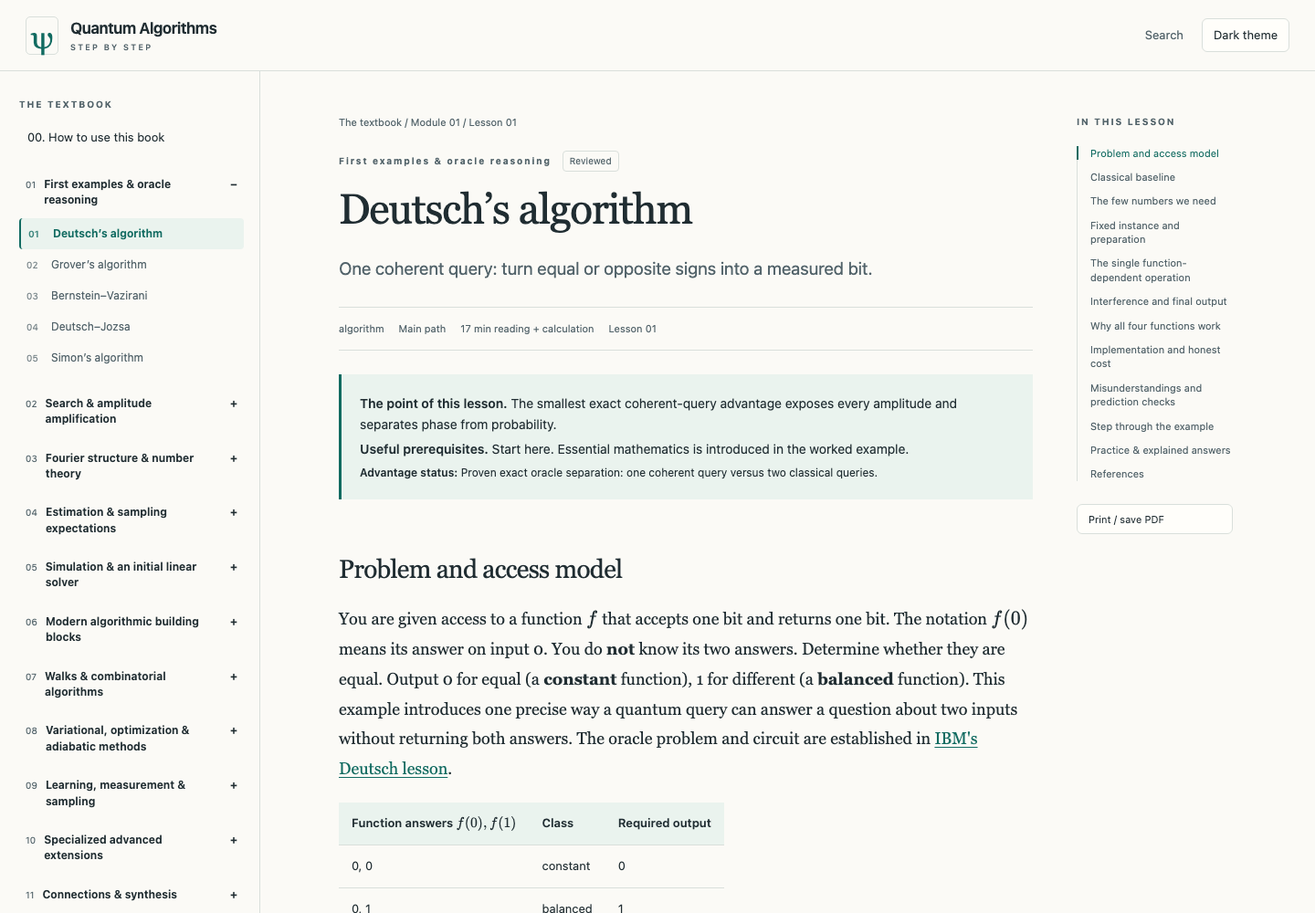
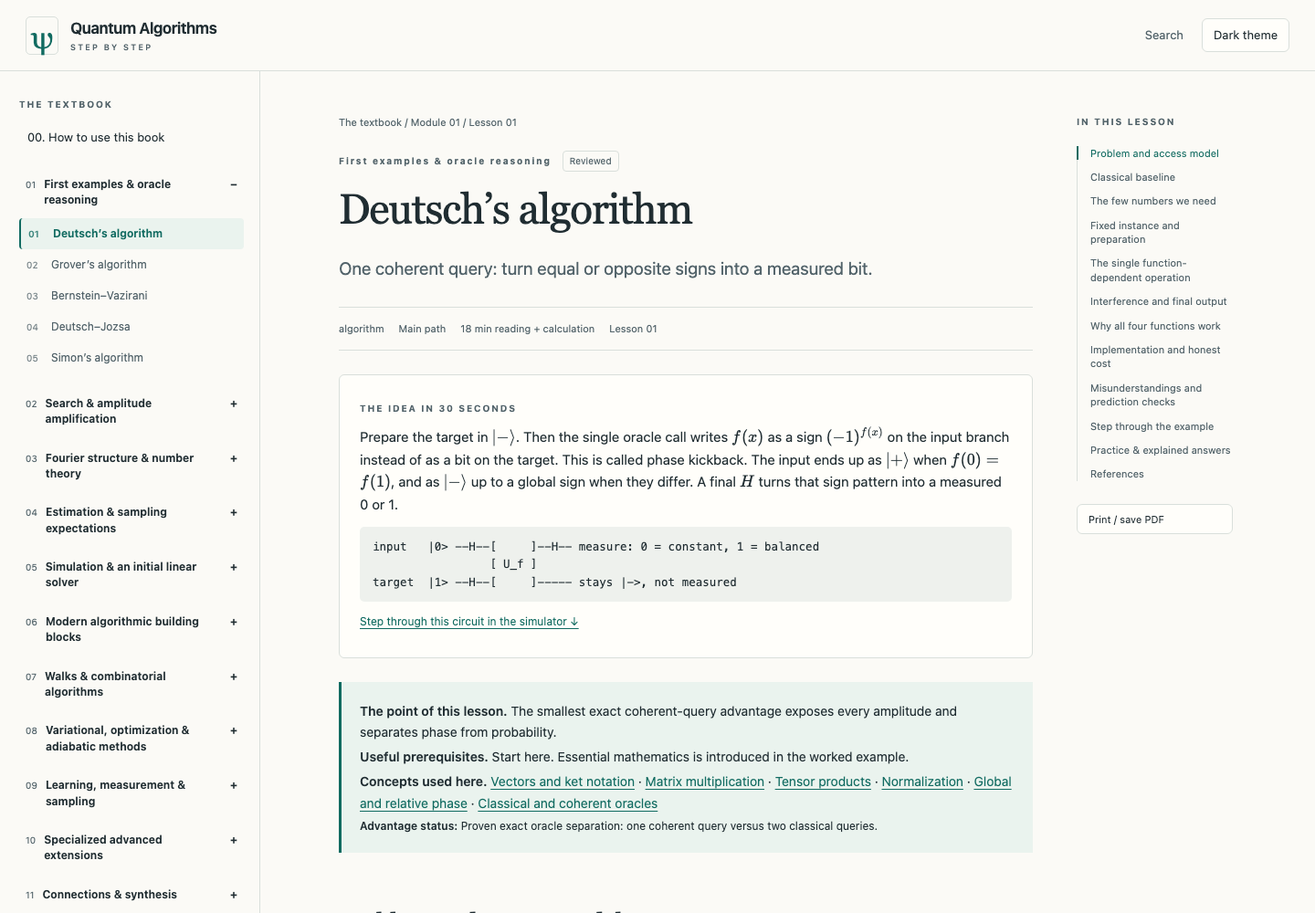
Make the first lessons faster to learn from
- Next/previous follow the main path; an adjacent optional branch is
  offered as a detour, and branch pages link back to the main path.
- Lessons 01–06 open with "The idea in 30 seconds": a plain-language
  mechanism plus an ASCII circuit sketch and a jump link to the demo.
- The context box lists the lesson's concepts as definition links.
- Define ket notation before the first oracle (Deutsch, Grover) and
  define "superposition"; link oracle, Hadamard, controlled gates,
  eigenstate, inner product, entangled, mixture, span, ancilla and
  uncompute at first use.
- New Hadamard definition; phase definition now leads with ±1 signs.
- Rename Deutsch–Jozsa's uniform state to |u⟩ so s keeps one meaning
  per lesson, and add signposts between Grover, BV and amplitude
  amplification.
- Home page: start button with reading time, a one-paragraph "pattern
  to watch for", and later-module conventions collapsed.
- Path page: grouped by module with per-lesson reading time and a
  first-sitting suggestion.
- Fix the Simon check 1 answer and the module 1 revisit wording.

diff --git a/tests/browser/book.spec.ts b/tests/browser/book.spec.ts
@@ -109,7 +109,7 @@ test('practice math, bibliography ordering and full-text search include supporti
  await expect(page.locator('#practice .katex').first()).toBeAttached();
  expect(await page.evaluate(()=>Boolean(document.getElementById('interactive-example')!.compareDocumentPosition(document.getElementById('references')!)&Node.DOCUMENT_POSITION_FOLLOWING))).toBe(true);
  const records=await (await page.request.get('/search-index.json')).json();
- expect(records.some((r:{kind:string;text:string})=>r.kind==='Exercise'&&r.text.includes('repeated row adds no rank'))).toBe(true);
+ expect(records.some((r:{kind:string;text:string})=>r.kind==='Exercise'&&r.text.includes('two rows are independent'))).toBe(true);
  expect(records.some((r:{kind:string;text:string})=>r.kind==='Module revisit'&&r.text.includes('output contracts differ'))).toBe(true);
  expect(records.some((r:{section:string})=>r.section==='Overview')).toBe(true);
 });
@@ -150,4 +150,19 @@ test('phone lessons open with the title on screen and the section list collapsed
 test('inline math inside disclosure labels and exercise answers is typeset',async({page})=>{
  await page.goto('/lessons/hallgren/');expect(await page.locator('summary .katex').count()).toBeGreaterThan(0);
  await page.goto('/lessons/amplitude-amplification/');await expect(page.locator('#practice')).not.toContainText('A-dagger');
+});
+
+test('Next follows the main path, offers branches, and branches lead back',async({page})=>{
+ await page.goto('/lessons/amplitude-amplification/');
+ await expect(page.locator('.prev-next').getByRole('link',{name:/NEXT LESSON/})).toHaveAttribute('href','/lessons/qft/');
+ await expect(page.locator('.path-note a')).toHaveAttribute('href','/lessons/bbht-search/');
+ await page.goto('/lessons/bbht-search/');await expect(page.locator('.path-note a')).toHaveAttribute('href','/lessons/qft/');
+ await page.goto('/lessons/qft/');await expect(page.locator('.prev-next').getByRole('link',{name:/PREVIOUS LESSON/})).toHaveAttribute('href','/lessons/amplitude-amplification/');
+});
+
+test('early lessons open with a short idea, a circuit sketch and linked concepts',async({page})=>{
+ await page.goto('/lessons/deutsch/');const idea=page.locator('.idea-box');
+ await expect(idea).toContainText('phase kickback');await expect(idea.locator('.circuit-sketch')).toContainText('U_f');
+ await idea.getByRole('link',{name:/simulator/}).click();await expect(page.locator('#interactive-example')).toBeInViewport();
+ await page.locator('.context-box a[href="/definitions/oracles/"]').click();await expect(page.getByRole('dialog')).toBeVisible();
 });

diff --git a/src/styles/book.css b/src/styles/book.css
@@ -14,3 +14,14 @@ main{overflow-wrap:break-word}
 /* The section list is a disclosure only on phones; elsewhere its label is a static heading. */
 .toc-details>summary{list-style:none;cursor:default}.toc-details>summary::-webkit-details-marker{display:none}.toc-count{display:none}
 @media(max-width:800px){.toc-details>summary{cursor:pointer;display:flex;align-items:center;min-height:40px}.toc-details>summary::after{content:'▸';margin-left:auto;font-size:13px;letter-spacing:0}.toc-details[open]>summary::after{content:'▾'}.toc-count{display:inline;font-weight:500;letter-spacing:.6px;white-space:pre}}
+/* A short intuition and circuit sketch ahead of the full derivation. */
+.idea-box{border:1px solid var(--line);border-radius:6px;background:var(--surface);padding:18px 22px;margin:26px 0 0;font-size:15px;line-height:1.65}
+.idea-box .idea-text p{margin:.5rem 0}
+.circuit-sketch{font:12.5px/1.55 ui-monospace,SFMono-Regular,Menlo,Consolas,monospace;background:var(--code);padding:12px 14px;border-radius:5px;overflow-x:auto;margin:12px 0 4px;white-space:pre}
+.path-note{margin:14px 0 0;color:var(--muted)}
+@media print{.idea-box{border-color:#bbb}.path-note{display:none}}
+.start-cta{display:flex;flex-wrap:wrap;align-items:center;gap:10px 16px;margin:22px 0 6px}
+.button-link{display:inline-block;background:var(--accent);color:var(--paper);text-decoration:none;font-weight:600;font-size:15px;padding:11px 18px;border-radius:6px}
+.button-link:hover{filter:brightness(1.08)}
+.path-module{font-family:Georgia,serif;font-weight:400;font-size:22px;margin:38px 0 4px}
+.catalog-list .path-minutes{font-size:12px;margin-top:2px}

diff --git a/src/lib/content.ts b/src/lib/content.ts
@@ -65,4 +65,6 @@ export async function render(markdown: string): Promise<Rendered> {
   return {html,sections,text:plainText(html)};
 }
 export function counts() { return Object.fromEntries(['reviewed','complete','partial','planned'].map(s=>[s,lessons.filter(l=>l.editorial===s).length])); }
+// Same estimate the lesson page shows: rendered lesson words at 150 per minute.
+export async function readingMinutes(l: Lesson) { return Math.ceil((await render(lessonMarkdown(l))).text.split(/\s+/).length/150); }
 export function label(l: Lesson) { return `${String(l.sequence).padStart(2,'0')}. ${l.title}`; }

diff --git a/src/content/lessons/01-deutsch.md b/src/content/lessons/01-deutsch.md
@@ -9,7 +9,7 @@ You are given access to a function $f$ that accepts one bit and returns one bit.
 | 1, 0 | balanced | 1 |
 | 1, 1 | constant | 0 |
 
-Our quantum access is a coherent, reversible operation called $U_f$, pronounced “U sub f.” It acts on two bits' worth of quantum state:
+Our quantum access is a coherent, reversible black box, called an [oracle](/definitions/oracles/) and named $U_f$ (pronounced “U sub f”). It acts on two bits' worth of quantum state. Read $|x,y\rangle$ (“ket x, y”) as the name of the joint state whose input bit is $x$ and target bit is $y$. A quantum state attaches a number called an **amplitude** to each such label; [the few numbers we need](#the-few-numbers-we-need) below makes this precise.
 
 $$U_f|x,y\rangle=|x,y\oplus f(x)\rangle.$$
 
@@ -23,11 +23,11 @@ Deutsch uses **one coherent oracle call**, plus fixed gates and one measured bit
 
 ## The few numbers we need
 
-A qubit's state is a two-entry column of **amplitudes**. The labels $|0\rangle$ and $|1\rangle$ (“ket zero” and “ket one”) abbreviate the columns $(1,0)^T$ and $(0,1)^T$. The superscript $T$ means that the displayed row is written vertically. A general state $a|0\rangle+b|1\rangle$ means the column $(a,b)^T$. In this lesson every amplitude is real, so probabilities are simply $a^2$ and $b^2$; their sum must be 1. Later [complex amplitudes](/definitions/complex-numbers/) use squared magnitudes.
+A qubit's state is a two-entry column of **amplitudes**. The labels $|0\rangle$ and $|1\rangle$ (“ket zero” and “ket one”) abbreviate the columns $(1,0)^T$ and $(0,1)^T$. The superscript $T$ means that the displayed row is written vertically. A general state $a|0\rangle+b|1\rangle$ means the column $(a,b)^T$. In this lesson every amplitude is real, so probabilities are simply $a^2$ and $b^2$; their sum must be 1. A state with two or more nonzero amplitudes, such as $|+\rangle$ below, is called a **superposition**. It is not secretly one of its labels: later gates combine the amplitudes themselves, signs included. Later [complex amplitudes](/definitions/complex-numbers/) use squared magnitudes.
 
 The minus sign in $-1/\sqrt2$ is allowed: squaring gives positive probability $1/2$. Here $\sqrt2$ is the positive number whose square is 2. We use this scale so two equal-magnitude amplitudes have total probability one.
 
-Our main fixed gate is the **Hadamard**, named $H$:
+Our main fixed gate is the **[Hadamard](/definitions/hadamard/)**, named $H$:
 
 $$H=\frac1{\sqrt2}\begin{pmatrix}1&1\\1&-1\end{pmatrix},\qquad
 H\begin{pmatrix}a\\b\end{pmatrix}=\begin{pmatrix}(a+b)/\sqrt2\\(a-b)/\sqrt2\end{pmatrix}.$$
@@ -97,7 +97,7 @@ $$\frac{|00\rangle-|01\rangle-|10\rangle+|11\rangle}{2}
 =\frac{|0\rangle-|1\rangle}{\sqrt2}\otimes\frac{|0\rangle-|1\rangle}{\sqrt2}
 =|-\rangle|-\rangle.$$
 
-This factoring is the same state written compactly. No scalar physically moves between qubits. The name **phase kickback** describes this effect of a controlled operation on an eigenstate target; it does not add an unlisted gate. A relative minus sign is a relative [phase](/definitions/phase/).
+This factoring is the same state written compactly. No scalar physically moves between qubits. The name **phase kickback** describes this effect of a [controlled operation](/definitions/controlled-gates/) on an [eigenstate](/definitions/eigenvalues/) target, meaning a state the operation only multiplies by a number (here $-1$); it does not add an unlisted gate. A relative minus sign is a relative [phase](/definitions/phase/).
 
 ## Interference and final output
 
@@ -139,7 +139,7 @@ A minus sign on the **entire state** is global phase; squaring amplitudes erases
 
 ## Implementation and honest cost
 
-For these tiny functions, the oracle constructions are: identity for 00; $X$ on target for 11; CNOT from input to target for 01; CNOT plus $X$ on target for 10. The last case has **two function-dependent elementary gates**, despite being one call to the specified oracle. The fixed part uses initial target $X$, two preparation Hadamards, one readout Hadamard, and input measurement. A device compiler may decompose CNOT differently on a particular native gate set.
+For these tiny functions, the oracle constructions are: identity for 00; $X$ on target for 11; [CNOT](/definitions/controlled-gates/) (controlled-NOT: flip the target when the input is 1) from input to target for 01; CNOT plus $X$ on target for 10. The last case has **two function-dependent elementary gates**, despite being one call to the specified oracle. The fixed part uses initial target $X$, two preparation Hadamards, one readout Hadamard, and input measurement. A device compiler may decompose CNOT differently on a particular native gate set.
 
 If the oracle is given as a classical truth table, someone must read that table to build the quantum circuit. The algorithm's query comparison assumes the required coherent interface is already supplied; it does not hide construction costs. The browser simulator uses classical loops to apply the oracle permutation and is not itself a quantum computer. Every demonstrated run is ideal, with no device noise or error-correction overhead. In that ideal model success is exactly 1; hardware errors would invalidate that guarantee.
 
@@ -150,7 +150,7 @@ The underlying pattern generalizes, but the two-entry exact cancellation is spec
 <details>
 <summary>What if the target is prepared in |+⟩ instead of |−⟩?</summary>
 
-$X|+\rangle=|+\rangle$, so every function acts identically on it. The input stays $|+\rangle$ and the final $H$ always yields 0, incorrectly reporting constant for balanced functions. A superposition alone does not supply useful information; the chosen target eigenvalue is essential.
+$X|+\rangle=|+\rangle$, so every function acts identically on it. The input stays $|+\rangle$ and the final $H$ always yields 0, incorrectly reporting constant for balanced functions. A superposition alone does not supply useful information; the chosen target [eigenvalue](/definitions/eigenvalues/) ($-1$ for $|-\rangle$, versus $+1$ for $|+\rangle$) is essential.
 
 </details>
 

diff --git a/src/content/lessons/03-bernstein-vazirani.md b/src/content/lessons/03-bernstein-vazirani.md
@@ -1,6 +1,6 @@
 ## Problem and access model
 
-A hidden bit string $s$ has $n$ bits. An oracle accepts another $n$-bit string $x$ and returns $f_s(x)=s\cdot x$, where the **binary dot product** means multiply matching bits, add, and keep the parity (the remainder modulo 2). For $s=101$ and $x=110$, it is $1(1)\oplus0(1)\oplus1(0)=1$. The goal is to return the entire string $s$, not merely classify the function. This is the Bernstein–Vazirani promise problem; [IBM develops it alongside Deutsch–Jozsa](https://quantum.cloud.ibm.com/learning/en/courses/fundamentals-of-quantum-algorithms/quantum-query-algorithms/deutsch-jozsa-algorithm#the-bernstein-vazirani-problem).
+This lesson returns to [Deutsch's](/lessons/deutsch/) sign trick, now on several input bits. A hidden bit string $s$ has $n$ bits; here $s$ is a string of bits, not Grover's state $|s\rangle$. An oracle accepts another $n$-bit string $x$ and returns $f_s(x)=s\cdot x$, where the **binary dot product** means multiply matching bits, add, and keep the parity (the remainder modulo 2). For $s=101$ and $x=110$, it is $1(1)\oplus0(1)\oplus1(0)=1$. The goal is to return the entire string $s$, not merely classify the function. This is the Bernstein–Vazirani promise problem; [IBM develops it alongside Deutsch–Jozsa](https://quantum.cloud.ibm.com/learning/en/courses/fundamentals-of-quantum-algorithms/quantum-query-algorithms/deutsch-jozsa-algorithm#the-bernstein-vazirani-problem).
 
 Assume a coherent reversible oracle $U_f|x,y\rangle=|x,y\oplus f_s(x)\rangle$. $y$ is one auxiliary bit. The promise that $f$ is linear over XOR is essential; a generic Boolean function is not described by a hidden $n$-bit string. The problem provider supplies this oracle. Our access does not include permission to inspect its circuit for the answer.
 
@@ -17,7 +17,7 @@ Choose $n=3$, hidden $s=101$. Our input labels are ordered $000,\allowbreak 001,
 $$\begin{array}{c|rrrrrrrr}x&000&001&010&011&100&101&110&111\\\hline
 f_s(x)&0&1&0&1&1&0&1&0\end{array}.$$
 
-A state vector has one amplitude per label; probabilities are squared magnitudes. Prepare input $|000\rangle$, target $|1\rangle$. Apply the [Hadamard](/definitions/matrix-multiplication/) $H=(1/\sqrt2)\left(\begin{smallmatrix}1&1\\1&-1\end{smallmatrix}\right)$ to every bit. Each input bit becomes $|+\rangle=(1,1)^T/\sqrt2$; target becomes $|-\rangle=(1,-1)^T/\sqrt2$.
+A state vector has one amplitude per label; probabilities are squared magnitudes. Prepare input $|000\rangle$, target $|1\rangle$. Apply the [Hadamard](/definitions/hadamard/) $H=(1/\sqrt2)\left(\begin{smallmatrix}1&1\\1&-1\end{smallmatrix}\right)$ to every bit. Each input bit becomes $|+\rangle=(1,1)^T/\sqrt2$; target becomes $|-\rangle=(1,-1)^T/\sqrt2$.
 
 The input tensor product therefore has eight entries, each $(1/\sqrt2)^3=1/\sqrt8$. It is
 
@@ -76,7 +76,7 @@ An equivalent cancellation calculation gives the amplitude of output $y$ as $2^{
 
 ## Implementation, cost, and counterexamples
 
-For the example, two CNOTs from input bits 0 and 2 into the target implement the oracle. For an $n$-bit string this construction uses one CNOT per hidden 1, up to $n$. The outer algorithm calls the full provided oracle once and uses $2n+1$ Hadamards plus target initialization and readout. One query is therefore not one elementary gate. The classical simulator scans amplitudes; this is an exponentially large representation in general, not a fast classical implementation of the oracle separation.
+For the example, two [CNOTs](/definitions/controlled-gates/) from input bits 0 and 2 into the target implement the oracle. For an $n$-bit string this construction uses one CNOT per hidden 1, up to $n$. The outer algorithm calls the full provided oracle once and uses $2n+1$ Hadamards plus target initialization and readout. One query is therefore not one elementary gate. The classical simulator scans amplitudes; this is an exponentially large representation in general, not a fast classical implementation of the oracle separation.
 
 If the function is affine, $f(x)=s\cdot x\oplus b$ for one constant bit $b$, the extra factor $(-1)^b$ is global. The experiment still returns $s$ but does not return $b$. If $f(x)=x_0x_1$ for two inputs, the signs $(1,1,1,-1)/2$ do not factor into independent $+,-$ patterns. Applying two Hadamards yields $(1,1,1,-1)/2$ again: all four outputs occur. There is no promised hidden linear string to recover.
 

diff --git a/src/content/lessons/02-grover.md b/src/content/lessons/02-grover.md
@@ -2,7 +2,7 @@
 
 There are four candidate labels: 00, 01, 10, 11. Exactly one is marked as the answer. You can test a candidate with a predicate $f$: marked means $f(x)=1$, unmarked means $f(x)=0$. The goal is to output the marked label. The label is hidden from the algorithm; the worked instance and demonstration controls reveal it to the reader so we can check the mechanism.
 
-For the quantum algorithm, assume a coherent **phase oracle** $O_f$:
+For the quantum algorithm, assume a coherent **phase [oracle](/definitions/oracles/)** $O_f$. Here $|x\rangle$ (“ket x”) names the basis state for label $x$; a state attaches an amplitude to every label, as set out in [State and gate conventions](#state-and-gate-conventions) below:
 
 $$O_f|x\rangle=(-1)^{f(x)}|x\rangle.$$
 
@@ -81,7 +81,7 @@ $$\frac12(a_{00}+a_{01}-a_{10}+a_{11})
 
 The 00 output is $\frac12(-1/2+1/2-1/2+1/2)=0$. Each cancellation is a sum of contributions **to one output amplitude**, not subtraction of probabilities.
 
-A valid deterministic gate preserves vector length. Here rows have squared length $4(1/4)=1$; distinct rows have inner product zero, since their four products contain two $+1/4$ and two $-1/4$. Therefore $D^TD=I$: it is [unitary](/definitions/unitarity/). Superscript $T$ transposes a real matrix. For complex matrices the corresponding condition uses conjugate transpose $\dagger$.
+A valid deterministic gate preserves vector length. Here rows have squared length $4(1/4)=1$; distinct rows have [inner product](/definitions/inner-products/) zero, since their four products contain two $+1/4$ and two $-1/4$. Therefore $D^TD=I$: it is [unitary](/definitions/unitarity/). Superscript $T$ transposes a real matrix. For complex matrices the corresponding condition uses conjugate transpose $\dagger$.
 
 <details data-derivation>
 <summary>Show algebra: why “reflection about the uniform state” means this matrix</summary>
@@ -102,7 +102,7 @@ $$D=(H\otimes H)S_0(H\otimes H).$$
 
 Operations act right-to-left: two Hadamards, then $S_0$, then two more Hadamards. Since $(H\otimes H)|00\rangle=|s\rangle$, this is the zero-state reflection expressed around the uniform direction. We can also verify it without assuming the reflection formula: $H\otimes H$ has rows $(1,1,1,1)$, $(1,-1,1,-1)$, $(1,1,-1,-1)$, and $(1,-1,-1,1)$, each divided by 2. Multiplication with the sign diagonal gives the displayed $D$.
 
-A controlled-$Z$ gate negates only 11. Surround it by $X$ on both qubits to negate only 00: this realizes $\operatorname{diag}(-1,1,1,1)=-S_0$. The resulting diffusion is $-D$, physically equivalent here because it differs by a global minus sign. For larger search registers, the zero-state phase flip uses a multi-controlled operation decomposed into elementary gates and workspace. These gates are fixed; the marked predicate is the function-dependent component.
+A [controlled](/definitions/controlled-gates/)-$Z$ gate negates only 11. Surround it by $X$ on both qubits to negate only 00: this realizes $\operatorname{diag}(-1,1,1,1)=-S_0$. The resulting diffusion is $-D$, physically equivalent here because it differs by a global minus sign. For larger search registers, the zero-state phase flip uses a multi-controlled operation decomposed into elementary gates and workspace. These gates are fixed; the marked predicate is the function-dependent component.
 
 For the toy oracle marking 10, conjugate a controlled-$Z$ by $X$ on the right bit. This flips label 10 to 11 before the controlled phase, then restores it. Teaching a specific oracle implementation does not mean the algorithm knows the marked label: an external problem provider supplies that circuit.
 
@@ -154,6 +154,8 @@ Only the oracle sign location changes. Preparation and $D$ are identical. The me
 No. After the sign flip the mean is zero, so diffusion negates all four amplitudes. Their magnitudes remain $1/2$, and the marked-set probability remains $1/2$. Here $\theta=\pi/4$ and $\sin^2(3\pi/4)=1/2$. Other phase schedules can change this behavior; the one-mark exact argument cannot be reused unchanged.
 
 </details>
+
+**Where Grover continues.** Lessons 03–05 return to Deutsch's sign trick with more input bits. Grover's rotation picture is generalized in lesson 06, [amplitude amplification](/lessons/amplitude-amplification/).
 
 ## References
 

diff --git a/src/content/lessons/05-simon.md b/src/content/lessons/05-simon.md
@@ -37,7 +37,7 @@ $$\frac1{\sqrt8}\bigl(
 |000,000\rangle+|001,001\rangle+|010,001\rangle+|011,000\rangle+
 |100,100\rangle+|101,101\rangle+|110,101\rangle+|111,100\rangle\bigr).$$
 
-A comma separates registers, not tensor factors inside a number. Each displayed term has probability $1/8$. The state is entangled: output labels record which pair the input belongs to. We cannot simply drop them and add all eight input amplitudes into a pure state.
+A comma separates registers, not tensor factors inside a number. Each displayed term has probability $1/8$. The state is [entangled](/definitions/tensor-products/), meaning it cannot be written as an input state times an output state: output labels record which pair the input belongs to. We cannot simply drop them and add all eight input amplitudes into a pure state.
 
 ## Condition on one output to see the mechanism
 
@@ -71,7 +71,7 @@ $$\frac{(-1)^{x\cdot y}+(-1)^{(x\oplus s)\cdot y}}{\sqrt{2\cdot2^n}}
 
 The factor $(-1)^{x\cdot y}$ is ±1 and does not affect probability. If $s\cdot y=1$, the bracket is $1-1=0$: the two paths to the same output cancel. If $s\cdot y=0$, it is 2, giving squared amplitude $4/2^{n+1}=1/2^{n-1}$. Exactly $2^{n-1}$ labels satisfy this constraint for nonzero $s$.
 
-For a second concrete pair, $x=001,x\oplus s=010$, the allowed outputs remain 000,011,100,111; their amplitudes are $(+,-,+,-)/2$. Those different relative signs do not change the measured distribution. Consequently, the algorithm need not record or even measure the output register. Ignoring it gives a mixture over pairs with the **same** input-outcome probabilities. The simulator retains the full joint state and sums output-register probabilities to compute this marginal; it does not pretend the input is an isolated pure state.
+For a second concrete pair, $x=001,x\oplus s=010$, the allowed outputs remain 000,011,100,111; their amplitudes are $(+,-,+,-)/2$. Those different relative signs do not change the measured distribution. Consequently, the algorithm need not record or even measure the output register. Ignoring it gives a [mixture](/definitions/density-matrices/) over pairs with the **same** input-outcome probabilities. The simulator retains the full joint state and sums output-register probabilities to compute this marginal; it does not pretend the input is an isolated pure state.
 
 ## Complete the classical linear-equation step
 
@@ -88,7 +88,7 @@ The last equation requires $s_1=s_2$. Thus the candidates are 000 and 011. The p
 
 If the samples were instead 111 and 011, XOR the rows: $111\oplus011=100$. Their equations become the same independent pair above. This is Gaussian elimination over bits: adding equations means XORing their rows, and $1+1=0$ modulo 2. [Binary linear algebra](/definitions/binary-linear-algebra/) works another elimination example.
 
-The sample order is random; no circuit guarantees those rows appear in that order. For three bits, after a first nonzero row there is probability $1/2$ that a new row lies outside its two-element span. More generally, after $k$ independent rows, their span has $2^k$ elements inside a space of size $2^{n-1}$, so the probability of gaining rank is $1-2^{k-(n-1)}$. Expected runs to reach rank $n-1$ are order $n$. A fixed budget of $n+O(\log(1/\delta))$ makes failure at most a chosen small $\delta$; insufficient rank should be reported and more samples taken, not guessed away.
+The sample order is random; no circuit guarantees those rows appear in that order. For three bits, after a first nonzero row there is probability $1/2$ that a new row lies outside its two-element [span](/definitions/binary-linear-algebra/), the set of XOR combinations of the rows collected so far. More generally, after $k$ independent rows, their span has $2^k$ elements inside a space of size $2^{n-1}$, so the probability of gaining rank is $1-2^{k-(n-1)}$. Expected runs to reach rank $n-1$ are order $n$. A fixed budget of $n+O(\log(1/\delta))$ makes failure at most a chosen small $\delta$; insufficient rank should be reported and more samples taken, not guessed away.
 
 ## Implementation, cost, and limitations
 

diff --git a/src/content/lessons/04-deutsch-jozsa.md b/src/content/lessons/04-deutsch-jozsa.md
@@ -12,9 +12,9 @@ It does **not** establish an exponential separation against bounded-error random
 
 ## Fixed instance and preparation
 
-Take two input bits, label order 00,01,10,11, and $f(x_0x_1)=x_0\oplus x_1$. The table is $(0,1,1,0)$, balanced. Initialize $|00\rangle|1\rangle$ and apply Hadamard $H$ to each of the three qubits. $H$ maps $(a,b)^T$ to $((a+b)/\sqrt2,(a-b)/\sqrt2)^T$. Thus the input becomes uniform and the target becomes $|-\rangle$:
+Take two input bits, label order 00,01,10,11, and $f(x_0x_1)=x_0\oplus x_1$. The table is $(0,1,1,0)$, balanced. Initialize $|00\rangle|1\rangle$ and apply Hadamard $H$ to each of the three qubits. $H$ maps $(a,b)^T$ to $((a+b)/\sqrt2,(a-b)/\sqrt2)^T$. Thus the input becomes the uniform state, written $|u\rangle$, and the target becomes $|-\rangle$:
 
-$$|s\rangle|-\rangle=\frac12(1,1,1,1)^T\otimes\frac1{\sqrt2}(1,-1)^T.$$
+$$|u\rangle|-\rangle=\frac12(1,1,1,1)^T\otimes\frac1{\sqrt2}(1,-1)^T.$$
 
 The tensor product multiplies each input entry by each target entry, giving eight amplitudes of magnitude $1/(2\sqrt2)$. Their probabilities add to $8(1/8)=1$. Input-first register ordering is used throughout.
 
@@ -65,7 +65,7 @@ Every oracle sign is negated, so the entire post-query input vector gains global
 
 ## Implementation and end-to-end cost
 
-Preparation uses $n+1$ Hadamards plus initialization; readout uses $n$ more, followed by $n$ measured bits and a classical OR. The coherent oracle is called once. For the two-bit parity example, two CNOTs into the target implement it. For the broken-promise AND example, one Toffoli implements it. Those are different function-dependent circuits; the outer algorithm is the same.
+Preparation uses $n+1$ Hadamards plus initialization; readout uses $n$ more, followed by $n$ measured bits and a classical OR. The coherent oracle is called once. For the two-bit parity example, two [CNOTs](/definitions/controlled-gates/) into the target implement it. For the broken-promise AND example, one Toffoli (a NOT controlled by two bits) implements it. Those are different function-dependent circuits; the outer algorithm is the same.
 
 An arbitrary promised truth table can still have an expensive reversible implementation. One coherent call to a large circuit is not constant gate cost, nor is storing $2^n$ table entries free. The theoretical ideal exactness assumes exact operations and no noise; it is distinct from a measured hardware success rate. The classical simulator enumerates amplitudes, so its exponential memory is not an implementation of a quantum advantage on a classical CPU.
 

diff --git a/research/review-disposition.md b/research/review-disposition.md
@@ -52,3 +52,19 @@ The author ran type checking (0 errors/warnings/hints), 67 unit tests, 38 browse
 [Hosted run 41409922696](https://github.com/qiaokan/quantum-algorithms/actions/runs/41409922696) passed the build, unit, numerical and link checks but found a 9-pixel mobile overflow in random-circuit-sampling (37 of 38 browser tests passed). Three long inline expressions are now scrollable display equations without changing the mathematics. The all-chapters test preserves its strict width bound, reports the problematic math, and collects all affected chapters with soft assertions that still fail CI.
 
 Local full validation passed again: 67 unit and 38 browser tests, plus build/audits. Claude round 4 verified the mathematical equivalence, display-renderer accessibility and unchanged test pass criterion, found no regressions, and agreed with the narrow fix. Its unedited report is `claude-review-round-4.md`. The author agrees. Hosted CI must pass on the follow-up commit; the definitive hosted result is attached to that commit in GitHub Actions.
+
+## Learning-flow edits after review (not independently re-reviewed)
+
+A read-only review of the entry experience and lessons 01–06 recomputed every amplitude, probability and exercise there and found no arithmetic errors. Its learning-speed findings were then applied. Edits to the reviewed lessons 01–05 add text and change no derivation:
+- They define ket notation before the first oracle in Deutsch and Grover, and define "superposition" in Deutsch.
+- They link existing definitions at first use (oracle, Hadamard, controlled gates, eigenstate, inner product, entangled, mixture, span, ancilla, uncompute).
+- In Deutsch–Jozsa, the uniform state is renamed from $|s\rangle$ to $|u\rangle$, so `s` is no longer reused within lessons 02–06 for unrelated objects.
+- They add signposts between Grover, Bernstein–Vazirani and amplitude amplification.
+
+Other changes:
+- New `hadamard` definition.
+- "The idea in 30 seconds" boxes for lessons 01–06 (`src/content/lesson-ideas.json`).
+- Next/previous links follow the main path, with optional branches offered rather than forced.
+- Two wording corrections: the Simon check 1 answer and the module 1 revisit.
+
+These edits passed the build, the content audit, unit tests, browser tests and the four standard-library numerical suites. No independent reviewer has re-read the changed prose, so the `reviewed` labels rest on the earlier review of the unchanged derivations.

diff --git a/src/content/definitions/hadamard.md b/src/content/definitions/hadamard.md
@@ -1,0 +1,24 @@
+The Hadamard gate $H$ is the one-qubit operation
+
+$$H=\frac1{\sqrt2}\begin{pmatrix}1&1\\1&-1\end{pmatrix},\qquad
+H\begin{pmatrix}a\\b\end{pmatrix}=\begin{pmatrix}(a+b)/\sqrt2\\(a-b)/\sqrt2\end{pmatrix}.$$
+
+It replaces a pair of amplitudes by their scaled sum and scaled difference. Each output is one row of the [matrix](/definitions/matrix-multiplication/) times the input column.
+
+Four values are used constantly. Starting from a basis state:
+
+$$H|0\rangle=\frac{(1,1)^T}{\sqrt2}=|+\rangle,\qquad H|1\rangle=\frac{(1,-1)^T}{\sqrt2}=|-\rangle.$$
+
+Applying it again undoes it, because $H$ times $H$ is the identity:
+
+$$H|+\rangle=\frac12\begin{pmatrix}1+1\\1-1\end{pmatrix}=|0\rangle,\qquad H|-\rangle=\frac12\begin{pmatrix}1-1\\1+1\end{pmatrix}=|1\rangle.$$
+
+So $H$ is the gate that turns a relative sign into a readable bit. $|+\rangle$ and $|-\rangle$ give 0 and 1 with probability $1/2$ each if measured directly. After one more $H$ they give 0 and 1 with certainty.
+
+On $n$ qubits, applying $H$ to every qubit of $|0\cdots0\rangle$ gives every $n$-bit label the same amplitude $1/\sqrt{2^n}$. The amplitude from input label $x$ to output label $y$ is $(-1)^{x\cdot y}/\sqrt{2^n}$, where $x\cdot y$ is the parity of the bitwise AND. For $n=2$, $x=10$ and $y=11$: $x\cdot y=1$, so that contribution is $-1/2$.
+
+We needed this gate because measurement only reports labels, never signs. Return to the parent calculation and check which pairs of amplitudes the next $H$ adds and subtracts.
+
+## Reference
+
+Foundational notation follows [IBM Quantum Learning — Basics of quantum information](https://quantum.cloud.ibm.com/learning/en/courses/basics-of-quantum-information), John Watrous / IBM. Numerical examples here are derived locally.

diff --git a/src/content/lessons/06-amplitude-amplification.md b/src/content/lessons/06-amplitude-amplification.md
@@ -81,7 +81,7 @@ We do not materialize the enormous matrix $R_s$. Instead,
 
 $$R_s=A(2|0\rangle\langle0|-I)A^\dagger.$$
 
-The dagger means [conjugate transpose](/definitions/conjugate-transpose/), which is the inverse of a unitary circuit. Read the product right-to-left: undo preparation, apply a phase reflection about all-zero, and prepare again. A multiply-controlled phase can implement the all-zero reflection, with decomposition and ancilla costs. The checker can compute $f(x)$ into a flag, phase the flag, and uncompute its workspace. Count both computation and uncomputation, not only the phase gate.
+The dagger means [conjugate transpose](/definitions/conjugate-transpose/), which is the inverse of a unitary circuit. Read the product right-to-left: undo preparation, apply a phase reflection about all-zero, and prepare again. A multiply-controlled phase can implement the all-zero reflection, with decomposition and [ancilla](/definitions/ancillas/) costs. The checker can compute $f(x)$ into a flag, phase the flag, and [uncompute](/definitions/uncomputation/) its workspace. Count both computation and uncomputation, not only the phase gate.
 
 For small nonzero $a$, order $1/\sqrt a$ iterations suffice for constant success probability; each uses $A$, $A^\dagger$, and checking. A classical randomized program does not automatically provide a cheap coherent $A$: retain random seeds and garbage reversibly, then account for cleanup. No success is possible when $a=0$. The toy's exact success uses the special value $a=1/4$; arbitrary $a$ generally misses probability 1 with integer iteration counts.
 

diff --git a/src/content/definitions/phase.md b/src/content/definitions/phase.md
@@ -1,4 +1,4 @@
-A phase is a unit-magnitude complex factor, $e^{i\theta}$. A global phase multiplies every amplitude by the same factor; it changes no measurement predictions. A relative phase changes some amplitudes relative to others and can alter later interference.
+For real amplitudes, a phase is simply a sign: $+1$ or $-1$. In general it is a unit-magnitude complex factor, $e^{i\theta}$; $\theta=0$ gives $+1$ and $\theta=\pi$ gives $-1$. A global phase multiplies every amplitude by the same factor; it changes no measurement predictions. A relative phase changes some amplitudes relative to others and can alter later interference.
 
 The states $(1,1)^T/\sqrt2$ and $(-1,-1)^T/\sqrt2$ differ globally by −1. The states $(1,1)^T/\sqrt2$ and $(1,-1)^T/\sqrt2$ differ relatively. All four have immediate probabilities $1/2,1/2$. Applying $H$ to the first pair yields $|0\rangle$ and $-|0\rangle$, with identical outcomes. Applying $H$ to $(1,-1)^T/\sqrt2$ gives $|1\rangle$.
 
